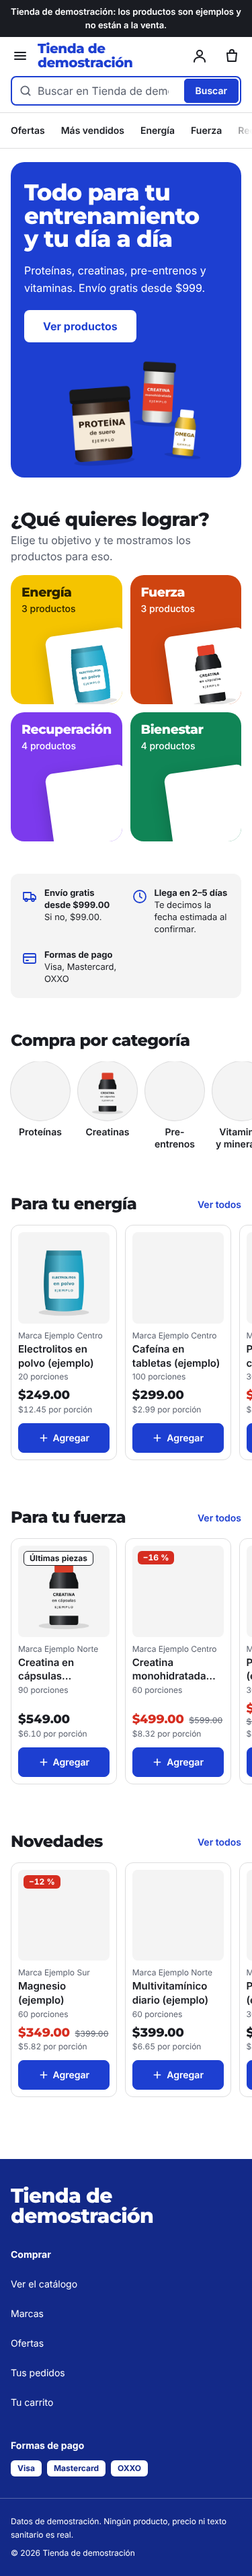
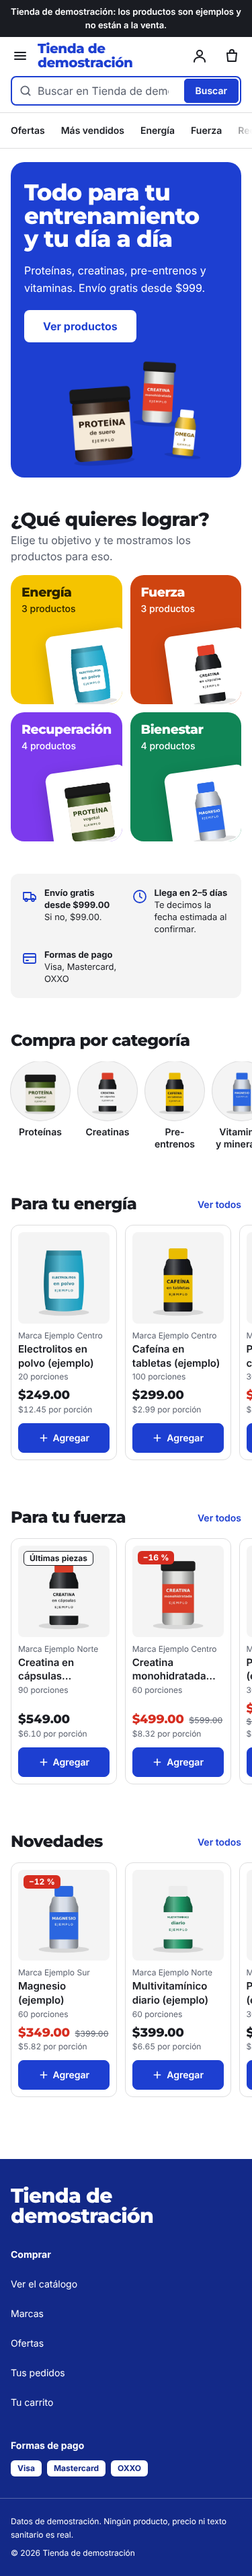
Capturas de referencia deterministas: esperar fotos diferidas
La primera referencia tenía fotos a medio cargar, así que dos capturas del
mismo código diferían. La herramienta ahora recorre la página y espera cada
foto (con tope de 3 s). Referencia regenerada desde el código de la línea
base (885308a); dos corridas idénticas salvo el nombre de la tienda del panel.

Claude-Session: https://claude.ai/code/session_01QDjRFtfmnoAsfjYK1WK9ui

diff --git a/tests/visual/referencia.spec.ts b/tests/visual/referencia.spec.ts
@@ -16,6 +16,28 @@ const WIDTHS = [375, 1280] as const;
 async function shot(page: Page, name: string, width: number) {
   await page.waitForLoadState("networkidle");
   await page.evaluate(() => document.fonts.ready);
+  // Las fotos cargan de forma diferida: se recorre la página y se espera a todas
+  // (sin esto, dos capturas del mismo código difieren por fotos a medio cargar).
+  await page.evaluate(async () => {
+    for (let y = 0; y < document.body.scrollHeight; y += 400) {
+      window.scrollTo(0, y);
+      await new Promise((r) => setTimeout(r, 60));
+    }
+    window.scrollTo(0, 0);
+    await Promise.all(
+      Array.from(document.images).map((img) =>
+        img.complete
+          ? null
+          : new Promise<void>((resolve) => {
+              // Tope: las de carruseles horizontales fuera de pantalla no cargan nunca.
+              setTimeout(resolve, 3000);
+              img.addEventListener("load", () => resolve(), { once: true });
+              img.addEventListener("error", () => resolve(), { once: true });
+            }),
+      ),
+    );
+  });
+  await page.waitForLoadState("networkidle");
   mkdirSync(OUT, { recursive: true });
   await page.screenshot({
     path: `${OUT}/${name}-${width}.png`,

diff --git a/docs/audit/referencia/LEEME.md b/docs/audit/referencia/LEEME.md
@@ -27,7 +27,11 @@ VISUAL_OUT=docs/audit/referencia pnpm exec playwright test -c playwright.visual.
 
 Para comparar después de un cambio, usar otro `VISUAL_OUT` y revisar las diferencias. El panel usa una tienda nueva en cada corrida, así que su nombre cambia (diferencia esperada).
 
+Las capturas se regeneraron el 2026-11-03 desde el código de la línea base (`885308a`, compilado aparte), con la herramienta corregida: recorre la página y espera las fotos diferidas. La primera versión capturaba fotos a medio cargar. Dos corridas del mismo código salen idénticas, salvo:
+
+- el nombre de la tienda en el panel;
+- `listado-375`, con ~0.1 % de píxeles dentro de fotos de producto que varían entre corridas (ruido del navegador al dibujar fotos, no del código).
+
 Observado en la línea base, sin cambiar nada:
 
-- varias fotos de producto de la demostración aparecen vacías;
 - los círculos de «Compra por categoría» no tienen foto (se trata en el lote 4).
